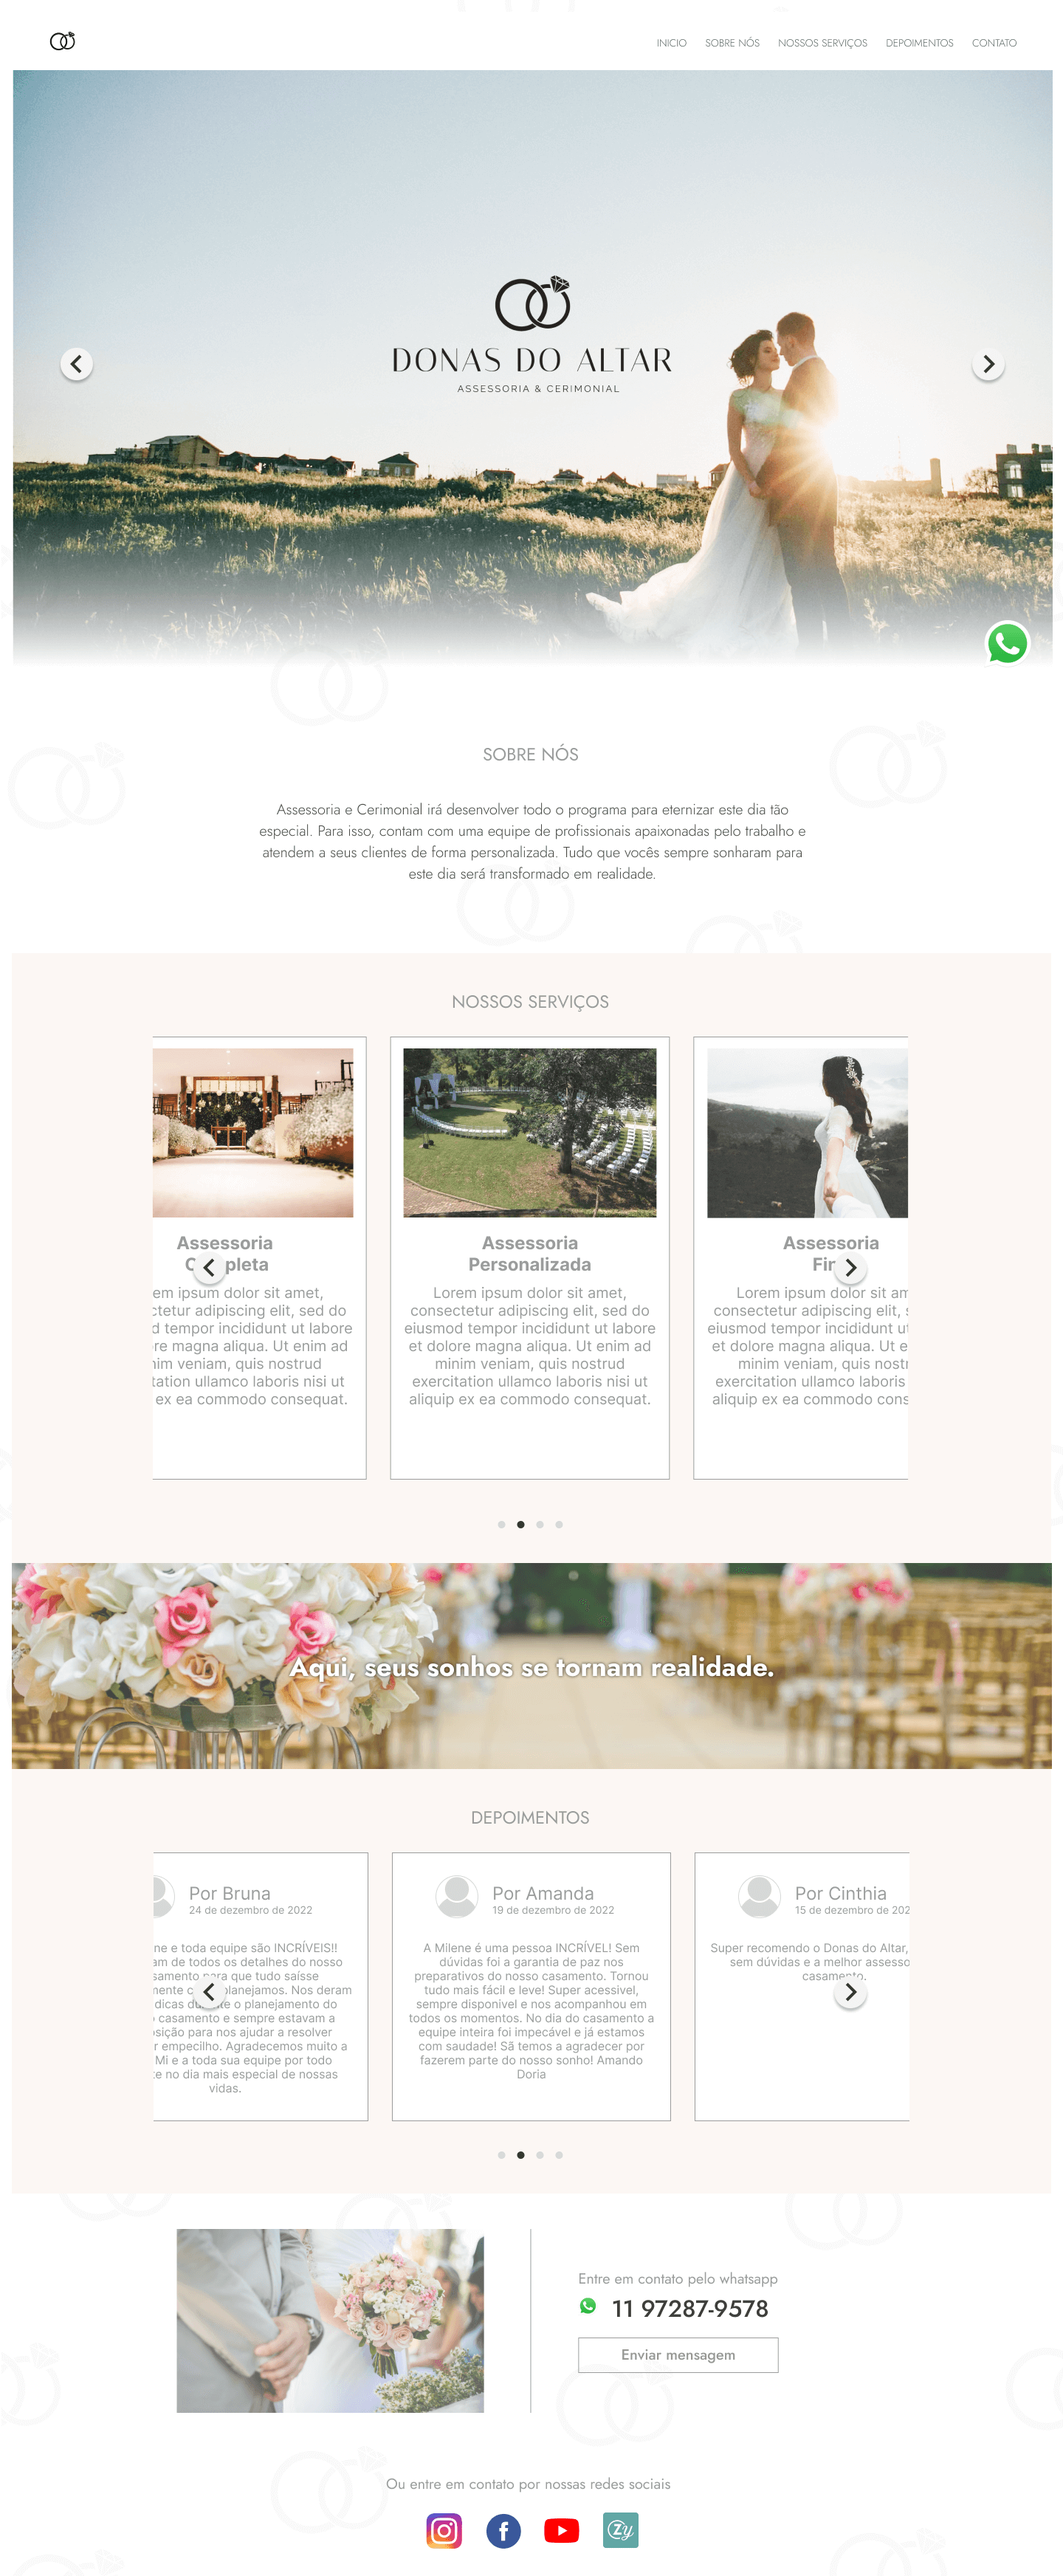
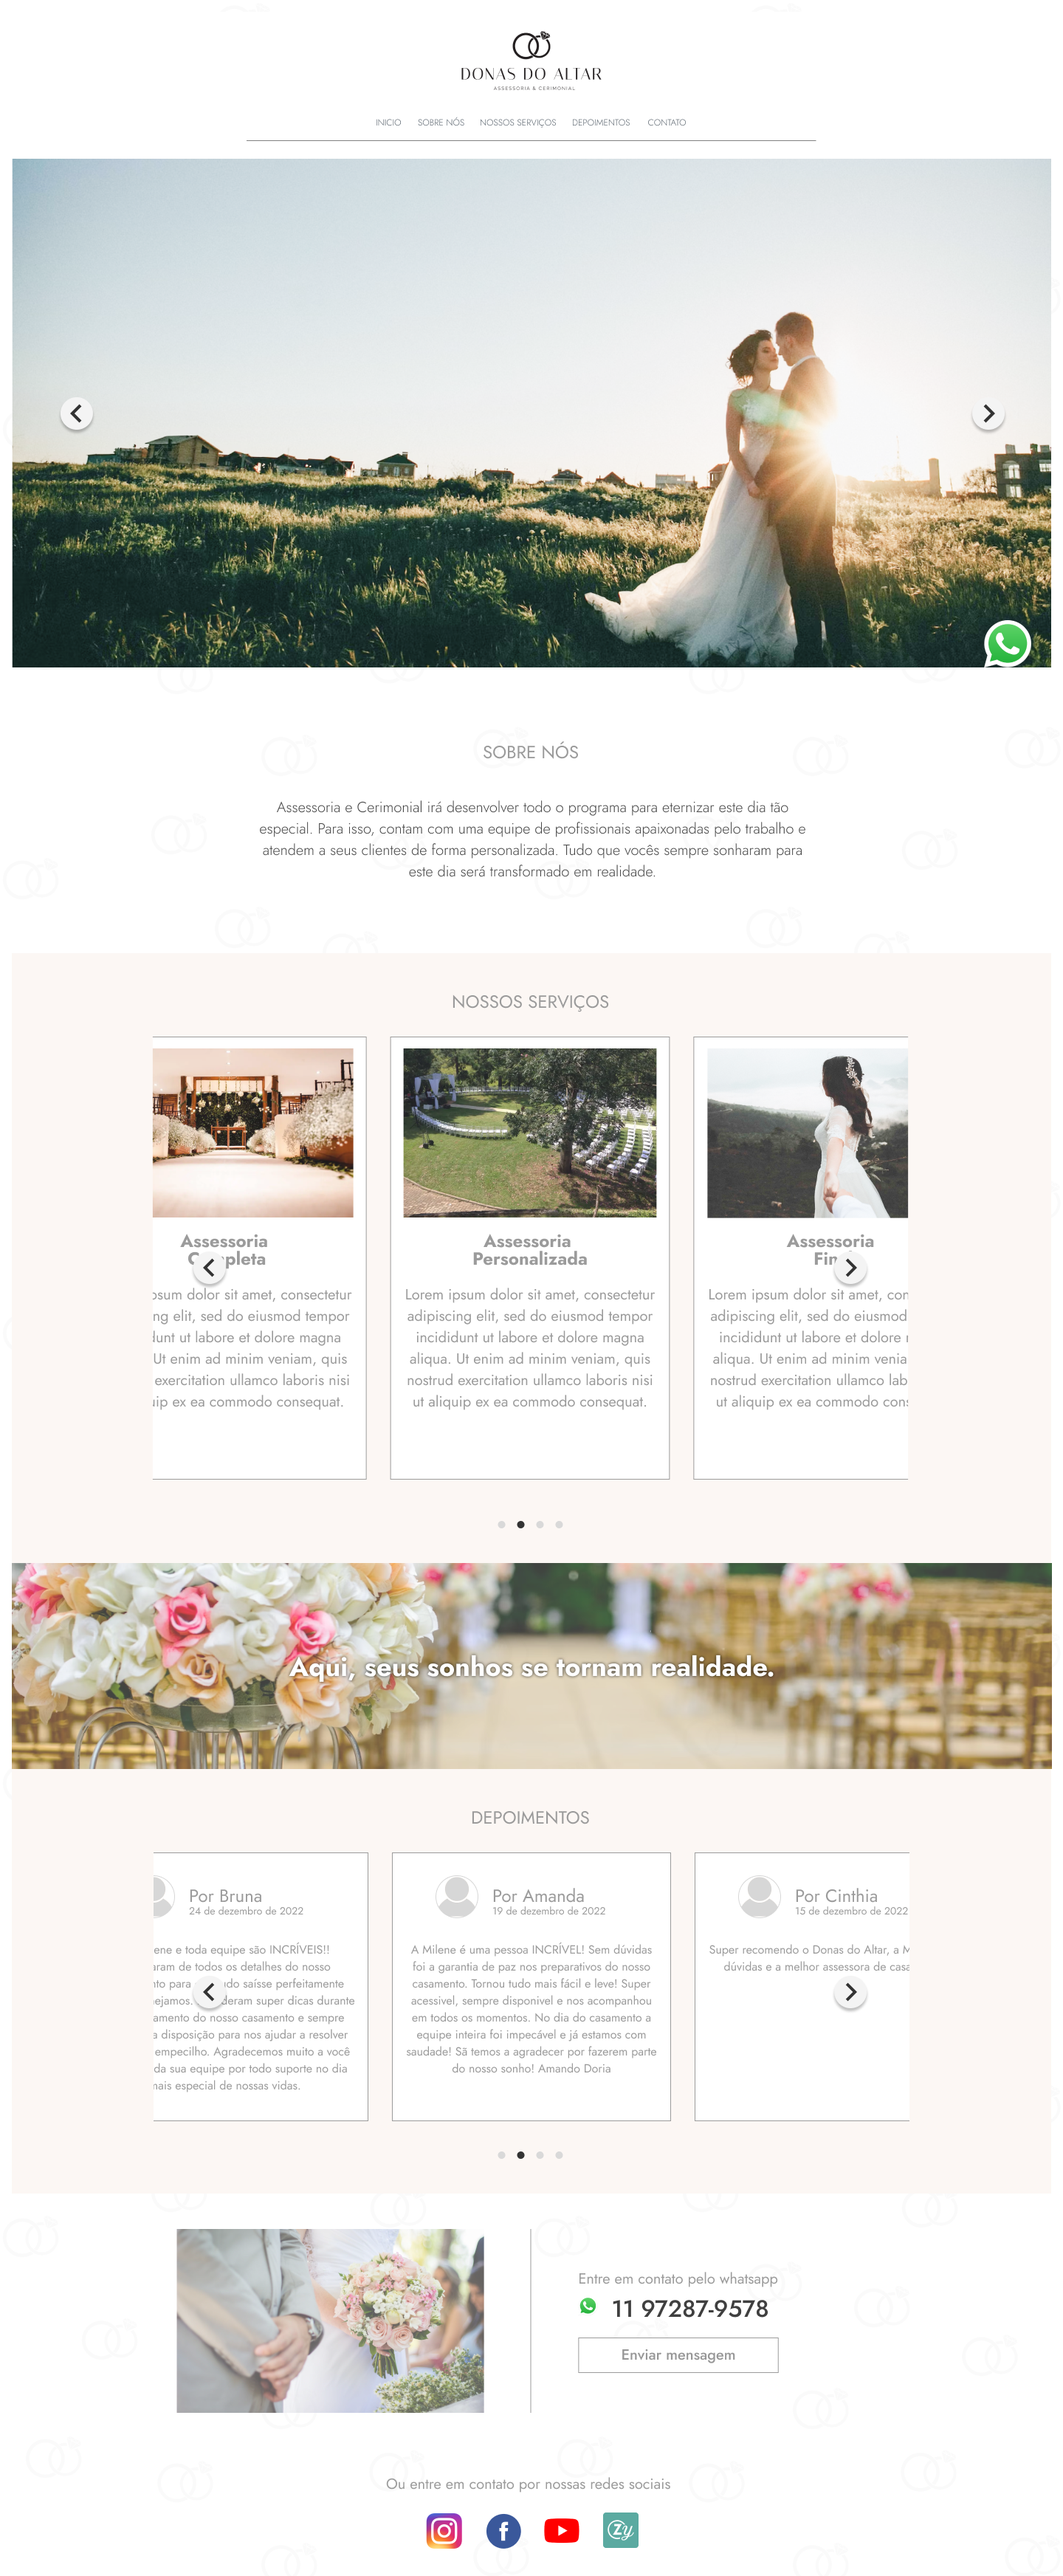
top components

diff --git a/src/partials/Navbar/index.tsx b/src/partials/Navbar/index.tsx
@@ -1,0 +1,33 @@
+// @ts-nocheck
+
+export const Navbar = () => {
+  return (
+    <navbar className={`flex flex-col items-center pt-6 h-52 w-full bg-slate-300`}>
+      <div className="flex items-center justify-center mb-8">
+        <div className="w-48 bg-slate-500 h-20">
+
+        </div>
+      </div>
+
+      <div className="border-gray-700 border-solid border-b w-8/12">
+        <ul className="flex items-center justify-center text-sm pb-4">
+          <li className="mx-2">
+            <a href="#"> INICIO </a>
+          </li>
+          <li className="mx-2">
+            <a href="#"> SOBRE NÓS </a>
+          </li>
+          <li className="mx-2">
+            <a href="#"> NOSSOS SERVIÇOS </a>
+          </li>
+          <li className="mx-2">
+            <a href="#"> DEPOIMENTOS </a>
+          </li>
+          <li className="mx-2">
+            <a href="#"> CONTATO </a>
+          </li>
+        </ul>
+      </div>
+    </navbar>
+  )
+}

diff --git a/src/partials/About/index.tsx b/src/partials/About/index.tsx
@@ -1,0 +1,12 @@
+export default function About() {
+  return (
+    <section className="flex flex-col text-center justify-center items-center bg-white">
+      <div className="w-2/4 py-24">
+        <h2 className="mb-12 text-2xl text-gray-400"> SOBRE NÓS </h2>
+        <p className="text-xl text-gray-700">
+          Assessoria e Cerimonial irá desenvolver todo o programa para eternizar este dia tão especial. Para isso, contam com uma equipe de profissionais apaixonadas pelo trabalho e atendem a seus clientes de forma personalizada. Tudo que vocês sempre sonharam para este dia será transformado em realidade.
+        </p>
+      </div>
+    </section>
+  )
+}

diff --git a/src/pages/index.tsx b/src/pages/index.tsx
@@ -1,11 +1,17 @@
 import { Header } from "@/partials/Header";
+import styles from './style.module.scss'
+import { Navbar } from "@/partials/Navbar";
+import About from "@/partials/About";
 
 export default function Home() {
   return (
     <main
-      className={`flex min-h-screen flex-col items-center justify-between`}
+      className={`flex flex-col font-base ${styles.static_bg}`}
     >
+      <Navbar />
       <Header />
+      <About />
+
     </main>
   )
 }

diff --git a/src/partials/Header/index.tsx b/src/partials/Header/index.tsx
@@ -2,8 +2,8 @@
 
 export const Header = () => {
   return (
-    <header className={`flex flex-col items-center justify-between p-24`}>
-      <div>
+    <header className={`flex flex-col items-center justify-between h-[42rem] w-full bg-slate-400`}>
+      <div className="flex items-center justify-center">
         
       </div>
     </header>

diff --git a/tailwind.config.ts b/tailwind.config.ts
@@ -14,6 +14,9 @@ const config: Config = {
           'conic-gradient(from 180deg at 50% 50%, var(--tw-gradient-stops))',
       },
     },
+    fontFamily: {
+      'base': ['Jost', 'Arial'],
+    }
   },
   plugins: [],
 }

diff --git a/src/pages/style.module.scss b/src/pages/style.module.scss
@@ -1,0 +1,4 @@
+.static_bg {
+    margin: 0px;
+    padding: 16px;
+}
